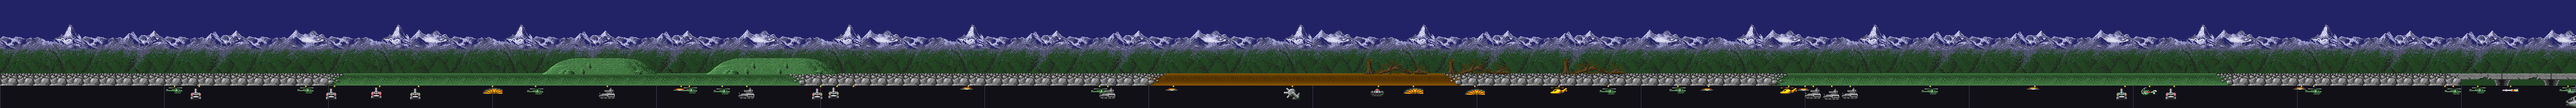
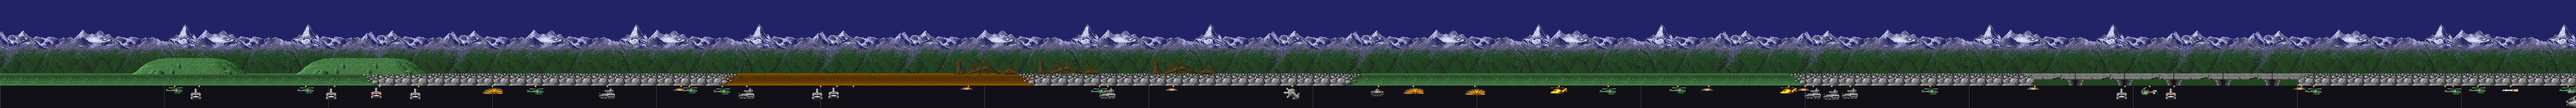
Start levels 832 px into the scenery like the original's pre-roll (hills at the start of level 1); fix maps

Changed region(s): [[0.0, 0.283, 1.0, 0.7925]]

diff --git a/remake/js/game.js b/remake/js/game.js
@@ -8,6 +8,9 @@ SW.game = (function () {
   const I = SW.input, E = SW.enemies;
   const W = 320, H = 200;
   const LEVEL_LEN = 4704;          // wave clock = ground pixels scrolled
+  // sub_69BDE runs the scroll step $340 times before a level starts and only
+  // then clears the level clock: backdrop, road and scenery begin 832 px in
+  const PREROLL = 0x340;
   const GROUND_Y = 0x98;           // jeep's ground level
   const SHOT_FLOOR = 0x9E;         // shots die here
   const SCRIPTS = 0x6EEA0, ROUTINE_BASE = 0x6D21E;
@@ -45,7 +48,8 @@ SW.game = (function () {
     startLevel(first);
     // ?t= (testing): start partway in; skipped waves don't spawn
     if (startClock > 0) {
-      scroll = clock = Math.min(startClock, LEVEL_LEN);
+      clock = Math.min(startClock, LEVEL_LEN);
+      advanceScroll(PREROLL + clock - scroll);
       while (waveIdx < waves.length && waves[waveIdx].t < clock) waveIdx++;
     }
     state = "title";
@@ -65,6 +69,7 @@ SW.game = (function () {
       p += 4;
     }
     scenery = { ptr: lv.sceneryPtr, delay: 0, objs: [] };
+    advanceScroll(PREROLL);
     shots = []; enemies = []; booms = [];
     Object.assign(world, { enemies, players, sin, rand, animAt, level: n, scrollDelta: 0, flash: 0,
                            stopScroll: 0, gameWon: false, scrollPos: 0, siloBusy: false, bonusActive: false,
@@ -175,6 +180,10 @@ SW.game = (function () {
   }
 
   // ---------------------------------------------------------------- scenery
+
+  function advanceScroll(n) {
+    for (let k = 0; k < n; k++) { scroll++; if (scroll % 32 === 0) stepScenery(); }
+  }
 
   function stepScenery() {
     // from the disassembly (sub_69D52): one slot per 32 px, negative = skip

diff --git a/remake/index.html b/remake/index.html
@@ -33,15 +33,15 @@
   </div>
   <canvas id="screen" width="320" height="200"></canvas>
 </div>
-<script src="js/gamedata.js?v=19"></script>   <!-- made by build.js; absent in the repo -->
-<script src="js/hints.js?v=19"></script>
-<script src="js/adf.js?v=19"></script>
-<script src="js/gfx.js?v=19"></script>
-<script src="js/input.js?v=19"></script>
-<script src="js/sound.js?v=19"></script>
-<script src="js/music.js?v=19"></script>
-<script src="js/enemies.js?v=19"></script>
-<script src="js/game.js?v=19"></script>
+<script src="js/gamedata.js?v=20"></script>   <!-- made by build.js; absent in the repo -->
+<script src="js/hints.js?v=20"></script>
+<script src="js/adf.js?v=20"></script>
+<script src="js/gfx.js?v=20"></script>
+<script src="js/input.js?v=20"></script>
+<script src="js/sound.js?v=20"></script>
+<script src="js/music.js?v=20"></script>
+<script src="js/enemies.js?v=20"></script>
+<script src="js/game.js?v=20"></script>
 <script>
 "use strict";
 (function () {

diff --git a/Research/tools/maps.py b/Research/tools/maps.py
@@ -16,6 +16,10 @@ Layers, top to bottom:
                     (-w - 1) slots; object at world x = scroll + $150, drawn
                     at y = $90 - $F minus the sprite's hotspot
 Under the map: where each enemy wave enters (wave clock + one screen).
+
+Before a level starts, sub_69BDE runs the scroll step $340 times and only then
+clears the level clock, so backdrop, ground and scenery start 832 px in (the
+backdrop 416, at half speed); the map's x is the level clock.
 """
 import struct
 import sys
@@ -31,6 +35,7 @@ SCREEN_W = 320
 BACK_H, GROUND_H = 144, 24
 SCENERY_Y = 0x90 - 0xF
 BAND_H = 44
+PREROLL = 0x340
 
 
 def ground_stream(mem, level):
@@ -46,7 +51,7 @@ def scenery(mem, level, length):
     """[(world_x, sprite)] following sub_69D52."""
     a = struct.unpack_from(">I", mem, LEVEL_PTRS + level * 12 + 8)[0]
     delay, out = 0, []
-    for pos in range(0, length, 32):
+    for pos in range(32, PREROLL + length + 1, 32):
         delay -= 1
         if delay >= 0:
             continue
@@ -55,7 +60,7 @@ def scenery(mem, level, length):
         if w < 0:
             delay = -w - 1
         elif w:
-            out.append((pos + 0x150, w))
+            out.append((pos + 0x150 - PREROLL, w))
     return out
 
 
@@ -87,7 +92,7 @@ def main():
         block = tracks(adf, track, 4)
         back = stream(mem, level)
         for i in range(width // 16 + 1):
-            col = column_pixels(block, back[i % len(back)], "planar")
+            col = column_pixels(block, back[(i + PREROLL // 32) % len(back)], "planar")
             for y in range(BACK_H):
                 for x in range(16):
                     if i * 16 + x < width:
@@ -96,7 +101,7 @@ def main():
         # ground
         ground = ground_stream(mem, level)
         for i in range(width // 16 + 1):
-            base = GROUND_BANK + ground[i % len(ground)] * 0xC0
+            base = GROUND_BANK + ground[(i + PREROLL // 16) % len(ground)] * 0xC0
             for y in range(GROUND_H):
                 planes = struct.unpack_from(">4H", mem, base + y * 8)
                 for x in range(16):

diff --git a/Research/NOTES.md b/Research/NOTES.md
@@ -180,6 +180,14 @@ Level number lives in `-$7F20(a6)`: **1–11 are the game's levels, 12 is the en
   `-$7FD2` += 1 (so **wave clock = ground pixels**, a level is 4,704 px),
   ground counter += 1, backdrop counter += 1 every other step (half-speed
   parallax), and every 32 steps the scenery stream steps (`sub_69D52`).
+- **Pre-roll**: level start (`sub_69BDE`) runs the scroll step `$340` times and
+  only afterwards clears the level clock (`$68662`), so the backdrop (416 px),
+  ground and scenery (832 px, 26 scenery steps) start well into their streams
+  while the waves start at clock 0 — e.g. level 1 opens on the first green hill.
+- **Sprite clipping**: `sub_712AA` draws at Y − `$F` minus the hotspot and cuts
+  every bob off at buffer line `$90`: nothing blitted reaches the road strip,
+  which starts at display line `$DB` (copper list `$69A2E`: playfield from
+  line `$4B`, road from `$DB`, panel from `$F3`).
 - **Ground layer**: stream `-$7FD6`, one byte per 16 px; column *n* is 192 bytes
   at `$62272 + n×$C0` = 16×24 pixels, 4 bitplanes interleaved per row. The ground
   bank is in the main program and shared by all levels.
